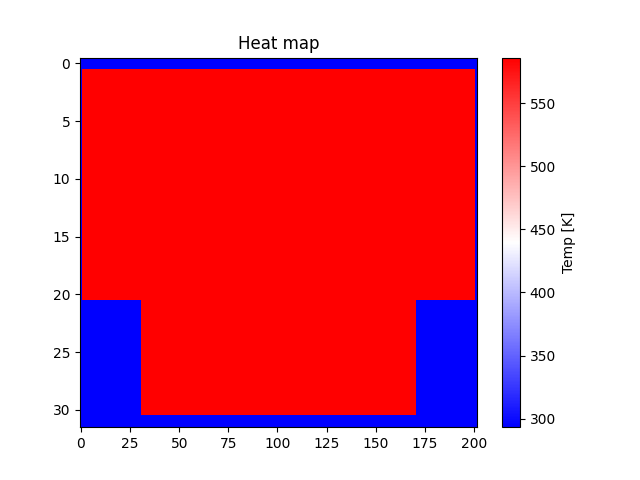
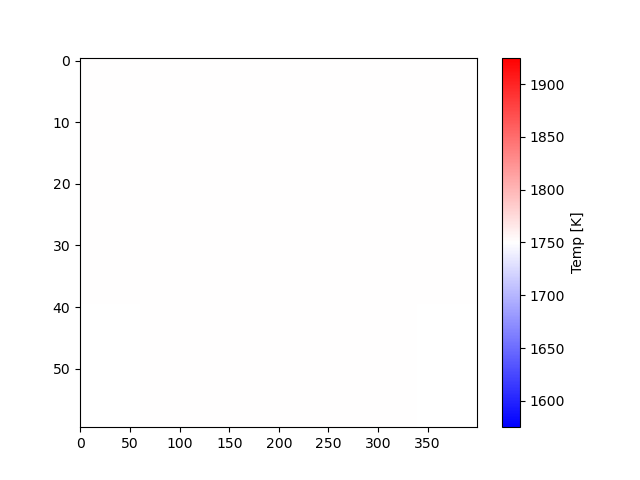
a

diff --git a/project_4/main.py b/project_4/main.py
@@ -23,8 +23,8 @@ graph_count = 0
 # with_case.get_Q(display=True)
 
 
-# with_case = cg.grid(sink_dim=None, nat_conv=True, delta=[0.1e-3,0.1e-3], ini_temp=7462)
-# with_case.iterate_K(max_iterations=10000, save=True, save_every=300, save_folder='no_sink_natural_convection')
+with_case = cg.grid(sink_dim=None, nat_conv=False, delta=[0.05e-3,0.05e-3], ini_temp=1750)
+with_case.iterate_K(max_iterations=10000, save=True, save_every=100, save_folder='no_sink_forced_convection')
 # with_sink = cg.grid(nat_conv=False, delta=[0.1e-3,0.1e-3], ini_temp=350)
 # with_sink.iterate_K(max_iterations=2000, save=True, save_every=100, save_folder='forced_convection',graph_count=graph_count)
 
@@ -41,7 +41,7 @@ graph_count = 0
 
 
 # finding initial conditions
-def find_ini_T(lower_limit, upper_limit, max_iterations=2000, max_repeat=1000, case_dim=None, sink_dim=None, nat_conv=True, delta=[0.1e-3,0.1e-3]):
+def find_ini_T(lower_limit, upper_limit, max_iterations=2000, max_repeat=20, case_dim=None, sink_dim=None, nat_conv=True, delta=[0.1e-3,0.1e-3]):
     ''' 
     Tries middle value of the temperature range, then changes upper or lower limit depending on whether the temperature is increasing or decreasing,
     the new temperature to try is the middle of the new range. This repeats until the temperature is accurate to 1 kelvin.
@@ -89,8 +89,16 @@ def find_ini_T(lower_limit, upper_limit, max_iterations=2000, max_repeat=1000, c
             print('accurate to 1 kelvin, range is: \n', lower_limit, upper_limit)
             break
 
-
-
         repeat += 1
 
-find_ini_T(250,500, case_dim=[20e-3,2e-3], sink_dim=[4e-3,30e-3,2e-3,1e-3,20])
+    return lower_limit, upper_limit
+
+# find_ini_T(650,700, case_dim=[20e-3,2e-3], sink_dim=[4e-3,30e-3,2e-3,1e-3,20], max_iterations=500, max_repeat=5 )   #  T>almost700?
+# find_ini_T(500,3000, case_dim=[20e-3,2e-3], max_iterations=500, nat_conv=False, max_repeat=5 )
+
+# run one for forced convection overnight  v=10*i  i 1to10, use 500 iteration insted of 2000
+# please please plesae test the storing results in an array before using 
+# try if convergence temp is different if more or less data points is used
+# check to remove axis offsets
+lower_limits
+for i in range

diff --git a/project_4/create_grid.py b/project_4/create_grid.py
@@ -160,8 +160,10 @@ class grid():
             
             plt.figure(str(self.d) + 'T' + str(self.T_fig_count) + str(graph_count))
             plt.title('Heat map')
-            plt.imshow(np.ma.masked_array(Temp, mask), cmap='bwr', interpolation='nearest', aspect='auto')
-            plt.colorbar(label='Temp [K]')
+            # fig, ax = plt.subplots()
+            c = plt.imshow(np.ma.masked_array(Temp, mask), cmap='bwr', interpolation='nearest', aspect='auto')
+            # ax.ticklabel_format(useOffset=False)
+            plt.colorbar(c, label='Temp [K]')
             if self.debug == True:
                 for i in range(self.T.shape[0]):
                     for j in range(self.T.shape[1]):
@@ -223,7 +225,7 @@ class grid():
         # new temperature matrix
         T_new = np.copy(self.T)
         
-        # forced convection, this will be overwriten if natural convection
+        # forced convection
         if self.nat_conv == False:
             h = 11.4 + 5.7 * self.v
             for i in range(1, self.T.shape[0]-1):
@@ -270,10 +272,12 @@ class grid():
                     
                     # calculating the new temperature
                     new_temp = (self.d**2*q+ k1*t[1, 0] + k2*t[1, 2] + k3*t[0, 1] + k4*t[2, 1]) / (k1+k2+k3+k4)
+
                     # print('new temp is ',new_temp)
                     # input()
                     T_new[i, j] = new_temp 
 
+        # natural convection
         else:
             # iterating over every point in the grid
             for i in range(1, self.T.shape[0]-1):
@@ -328,7 +332,7 @@ class grid():
                 
         # updating the temperature matrix
         self.T = np.copy(T_new)
-        # self.get_T(display=display, save=save, name=name)
+        # self.get_T(display=True)
         # return self.T
         
     def operate(self):
@@ -466,7 +470,7 @@ class grid():
             # operating
             self.operate_same_k_in_air()
             iteration += 1
-            # print('iteration', iteration)
+            print('iteration', iteration)
             
             # checking if max iterations reached
             if iteration == max_iterations:
